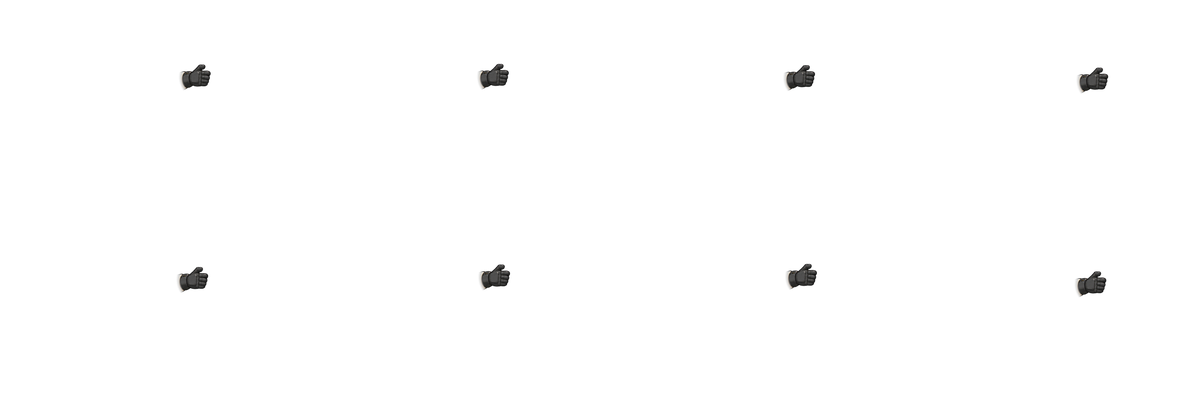
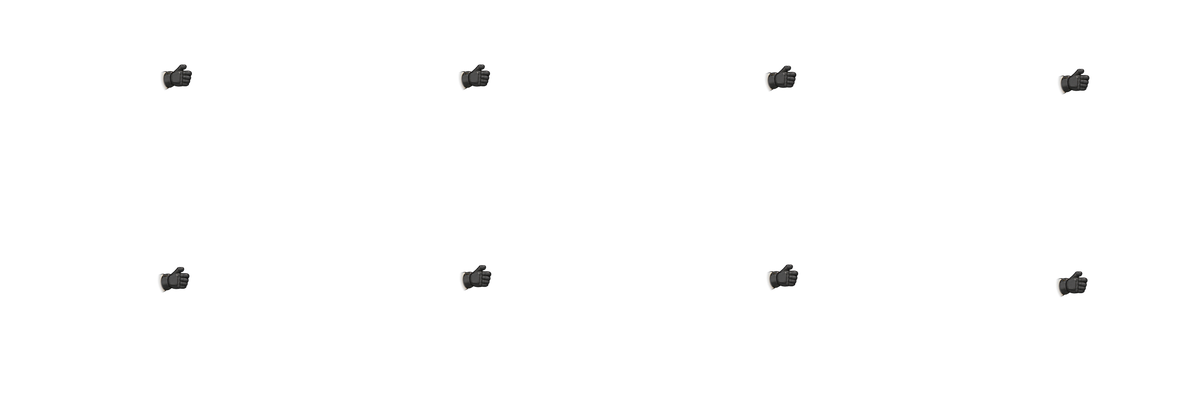
Герои без дёрганья: спокойная витрина меню, ствол в руках, позы стыкуются без рывков (Beer Party Studio)

diff --git a/tools/hero_tactical.py b/tools/hero_tactical.py
@@ -104,9 +104,18 @@ def main():
         fist_arr[..., 3] *= fade
         fist = Image.fromarray(fist_arr.clip(0, 255).astype(np.uint8), "RGBA")
         grip = {}
+        # Среднее положение корпуса в стойке: бег и стрельба сдвигаются к нему целиком (по X), иначе при смене
+        # позы тело прыгало на 10–20 px. Движение внутри клипа сохраняется.
+        idle_x = np.mean([anchor(b)[0] for b in cells(rgba(base + "body_nohands_idle.png"), COUNTS["idle"])])
         for clip in HANDS:
             bodies = cells(rgba(base + "body_nohands_" + clip + ".png"), COUNTS[clip])
             order = smooth_order(bodies) if clip == "idle" else list(range(len(bodies)))
+            shift = idle_x - np.mean([anchor(b)[0] for b in bodies])
+            bodies = [shifted(b, shift, 0) for b in bodies]
+            if clip == "idle":
+                # Стойка: раскачку корпуса гасим на 60% — кадров мало, крупные шаги смотрелись рывками.
+                mean_x = np.mean([anchor(b)[0] for b in bodies])
+                bodies = [shifted(b, (mean_x - anchor(b)[0]) * 0.6, 0) for b in bodies]
             frames, hands, points = [], [], []
             for i in order:
                 ax, ay = anchor(bodies[i])

diff --git a/HANDOFF.md b/HANDOFF.md
@@ -98,6 +98,7 @@
 64. Кварталы выживания (по просьбе тестера «разделить на 9 частей, районы со зданиями»): `LevelSpawner._build_quarters` делит `_interior_rect` на 3×3, центр/старт/босс пропускает; в клетке `_place_quarter`: здания `b_*` (props.json, `building: true`, арт assets/district/*) в глубине (сдвиг от протоки), двор — сектор по имени (`_make_sector`, вынесено из _build_sectors), жители, свет окон (`_life_lights`); на Свалке улицы `_streets` (ParkPaths.build_trail) от кварталов к центру, POI их обходят. Темы — lots.json → quarters (junkyard/bank, фильтр chapters). Если кварталов < 3 — старые случайные секторы. `_sectors` теперь чистится в начале build (раньше оставались от прошлой главы).
 65. Живость кварталов: прохожие (`AmbientLife.Actor` режим walker + `set_route`, `LevelSpawner._spawn_walkers` по `_streets.paths`/`_park.paths`, 3/6 шт. по качеству, 0 на q0); таблички кварталов `QuarterSign` (biome/quarter_sign.gd, неон на Свалке + EnvLights, кремово-золотые в Банке); дым из труб зданий Свалки — `smoke` в props.json (верх трубы по альфе картинки).
 66. Живой мир `WorldLife` (biome/world_life.gd, строит `LevelSpawner._build_world_life` в конце органики): стаи птиц (места — перед дворами, у выходов кварталов, у площади; взлёт от героя 150 px, выстрела 260 px через `WeaponController.fired`, взрыва; посадка через 18–35 с в другом месте, звук wing_flap), ветер (листья/бумажки), светлячки над травяными секторами (Свалка), искры над бочками (`_fire_spots`), люки с паром на улицах, бельё/флажки между двумя домами квартала (`_ropes`), тени облаков (Банк), реплики жителей (meta `sheet` у Actor, кулдауны). Два DrawLayer: decals (земля) и fx (воздух), всё только в кадре; q0 — только реплики. Качание растений — общий шейдер `ArenaProp.sway_material()` для spruce/bush/bush_low/planter (q>0).
+67. Дёрганье тактических героев (видео владельца, меню): в витрине меню (`menu_widgets` превью) у покадровых героев (`RaccoonVisual.uses_clips()`) прицел не гуляет по кругу — стоят в одну сторону, ствол чуть поводит; `CLIP_AIM_LIMIT` 0.95 → 0.6. В `tools/hero_tactical.py` клипы run/shoot выравниваются по среднему корпусу стойки (по X), раскачка стойки гасится на 60%.
 
 ## Как экономить токены
 - Давать одну задачу за раз с данными (журнал/скриншот/шаги). Не перечитывать большие файлы целиком — grep по нужной функции.
